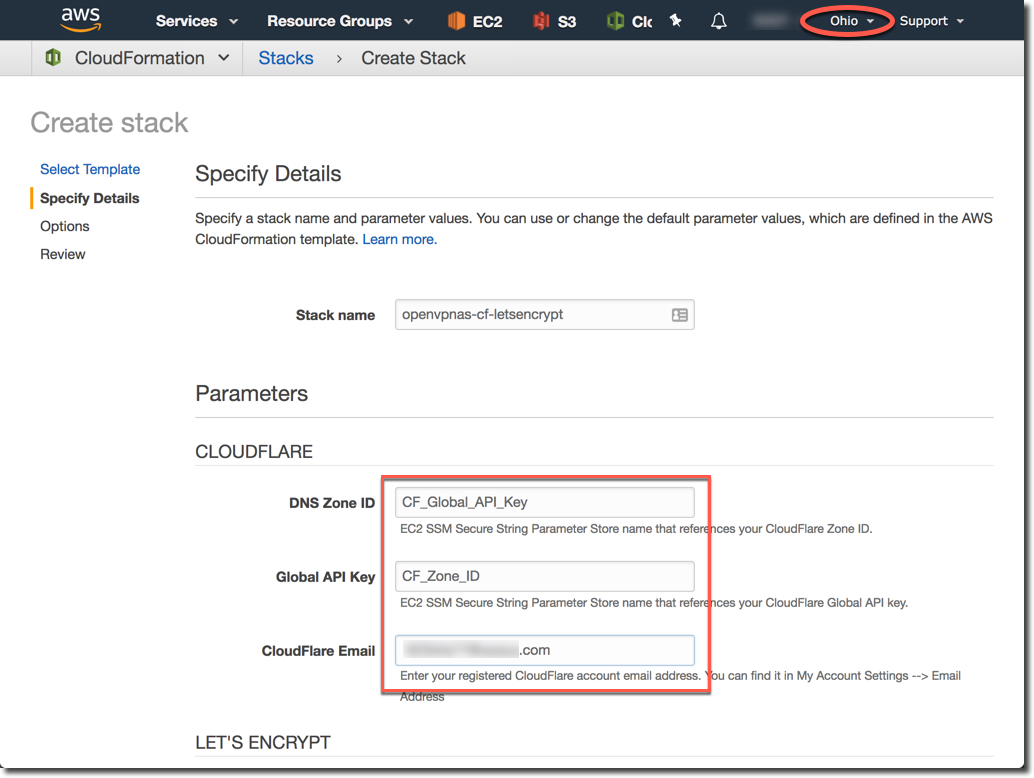
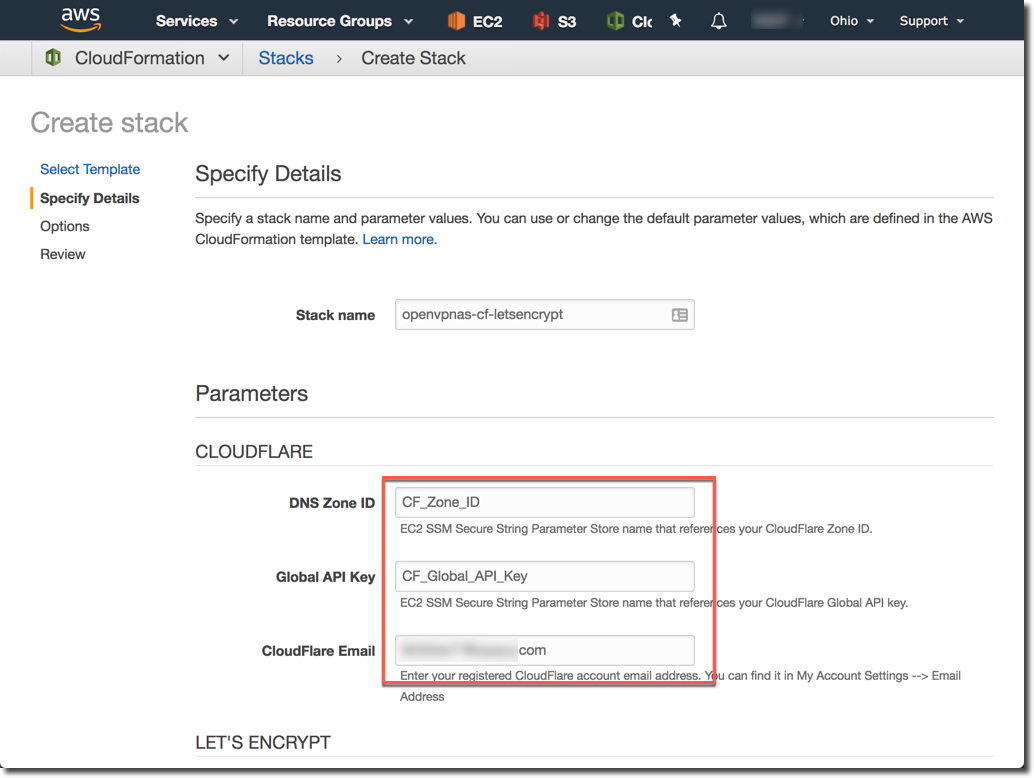
Fix incorrect image

Changed region(s): [[0.3714, 0.5861, 0.7118, 0.8946], [0.7737, 0.0, 0.8665, 0.0617], [0.4023, 0.7095, 0.4952, 0.7712]]

diff --git a/README.md b/README.md
@@ -64,6 +64,7 @@ Make sure that you are in the same region that you created your SSM secure sting
 [![Launch CloudFormation Stack](https://s3.amazonaws.com/cloudformation-examples/cloudformation-launch-stack.png
 )](https://console.aws.amazon.com/cloudformation/home#/stacks/new?stackName=openvpnas-cf-letsencrypt&templateURL=https://s3-us-west-2.amazonaws.com/github-automated-openvpnas-cloudflare-letsencrypt/automated-openvpnas-cloudflare-letsencrypt.yml)
 
+Enter the references to the SSM secure strings for your private CloudFlare account API data. Make sure that you don't mix up the Global API Key and Zone ID fields as it will fail and not create an A record in CloudFlare that points to your AWS EIP. When that happens, Let's Encrypt won't be able to resolve your FQDN and the certificate generation will fail.
 
 <p align="center">
 <img src="https://github.com/virtualjj/automated-openvpnas-cloudflare-letsencrypt/blob/master/images/readme/deploy-enter-ssm-params-cf-email.jpg" alt="Enter SSM secure string parameters and CloudFlare account email." height="75%" width="75%">
@@ -81,6 +82,9 @@ Enter a source IP address for connecting to the OpenVPN AS web UI. You can leave
 
 Enter a unique username for the web UI administrator account and a reference to the other SSM secure string for the secure password.
 
+Click **Next** and follow the prompts to deploy the stack.
 <p align="center">
 <img src="https://github.com/virtualjj/automated-openvpnas-cloudflare-letsencrypt/blob/master/images/readme/deploy-lock-ip-secure-string-passwd.jpg" alt="Enter a source IP for connecting to the OpenVPN AS web UI and choose a unique username as well as a SSM secure string for the admin password."="75%" width="75%">
 </p>
+
+The stack, instance, CloudFlare DNS update, and Let's Encrypt certificate should be complete in about five minutes.
